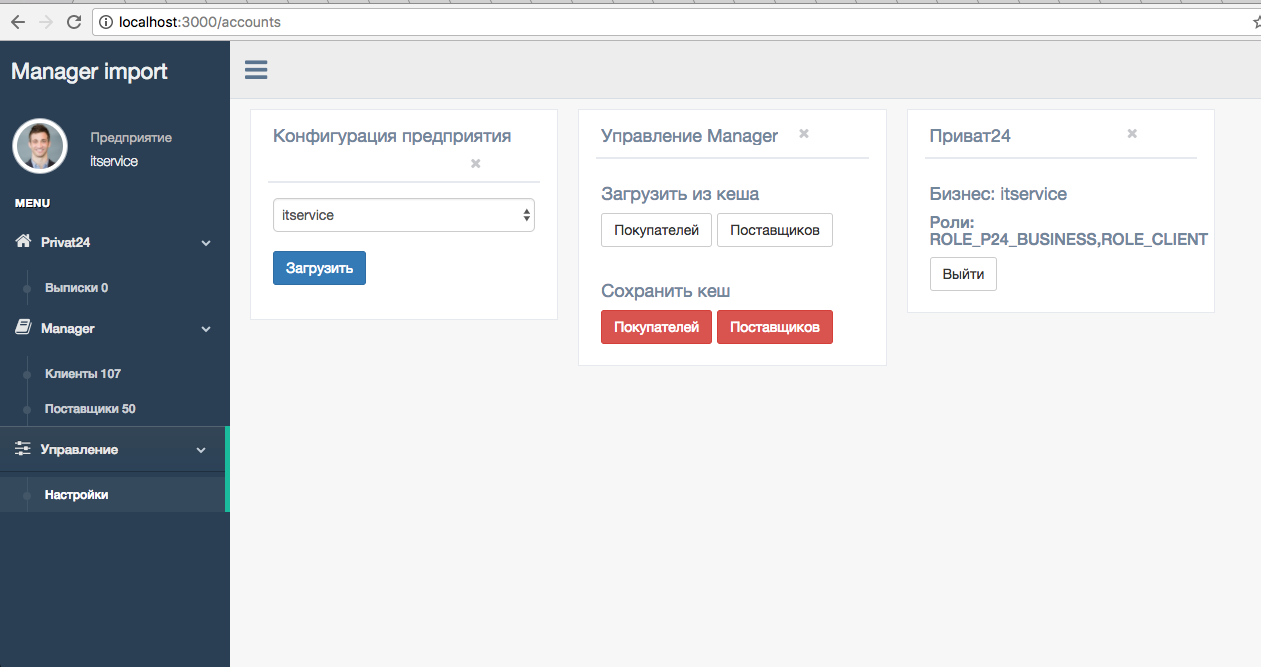
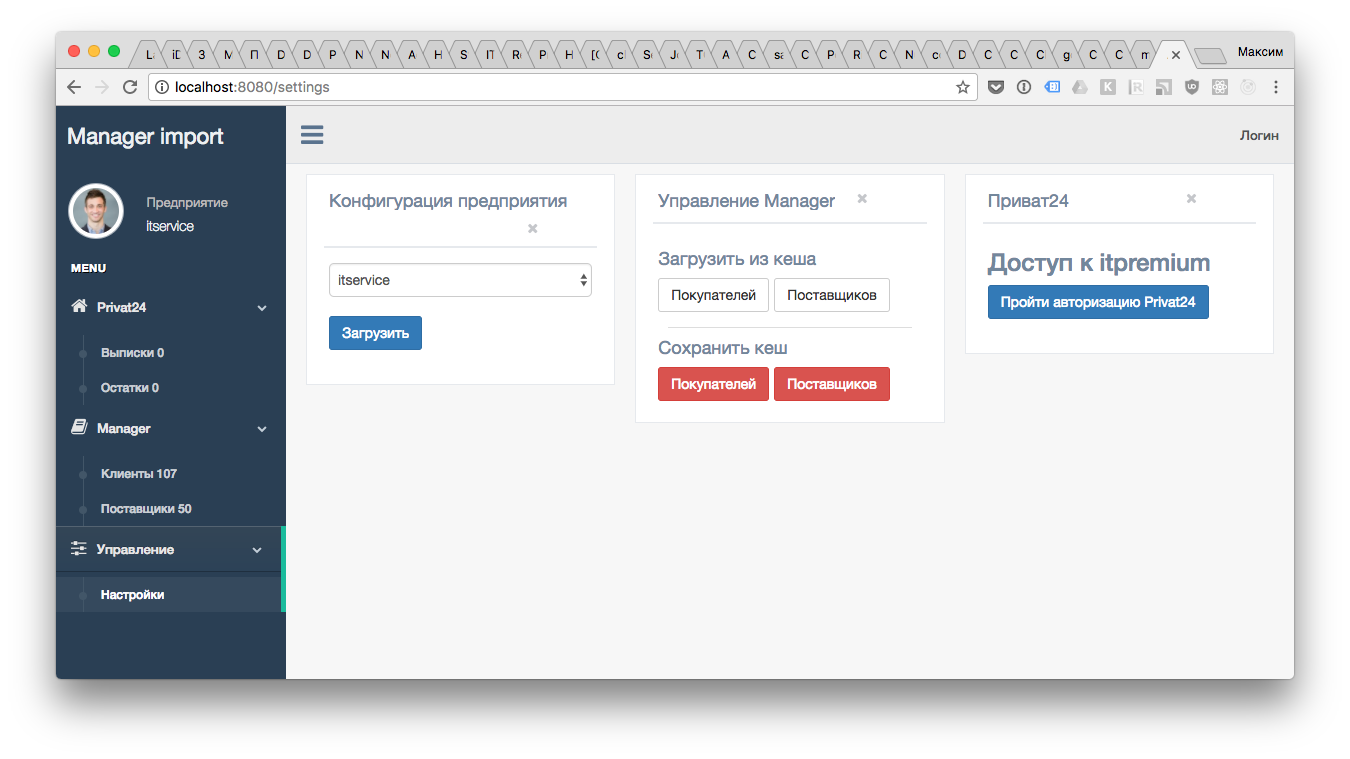
new screenshots and removed old deps

Changed region(s): [[0.0, 0.0, 1.0, 1.0], [0.4639, 0.3298, 0.6804, 0.5397], [0.4639, 0.1799, 0.6804, 0.2999]]

diff --git a/README.md b/README.md
@@ -11,6 +11,12 @@ and locally installed Manager server
 
     $ lein ring server
 
+    or
+    
+    $ lein run itservice
+    
+    this loads "itservice" configuration and starts web server on localhost port 8080
+
 and open browser http://localhost:3000/statements
 
 
@@ -23,6 +29,10 @@ and open browser http://localhost:3000/statements
 ![Screenshot 3](/doc/shot3.png?raw=true "Screenshot 3")
 
 
+![Screenshot 4](/doc/shot4.png?raw=true "Screenshot 4")
+
+
+![Screenshot 5](/doc/shot5.png?raw=true "Screenshot 5")
 ## License
 
 Copyright © 2017 Maksym Prokopov
